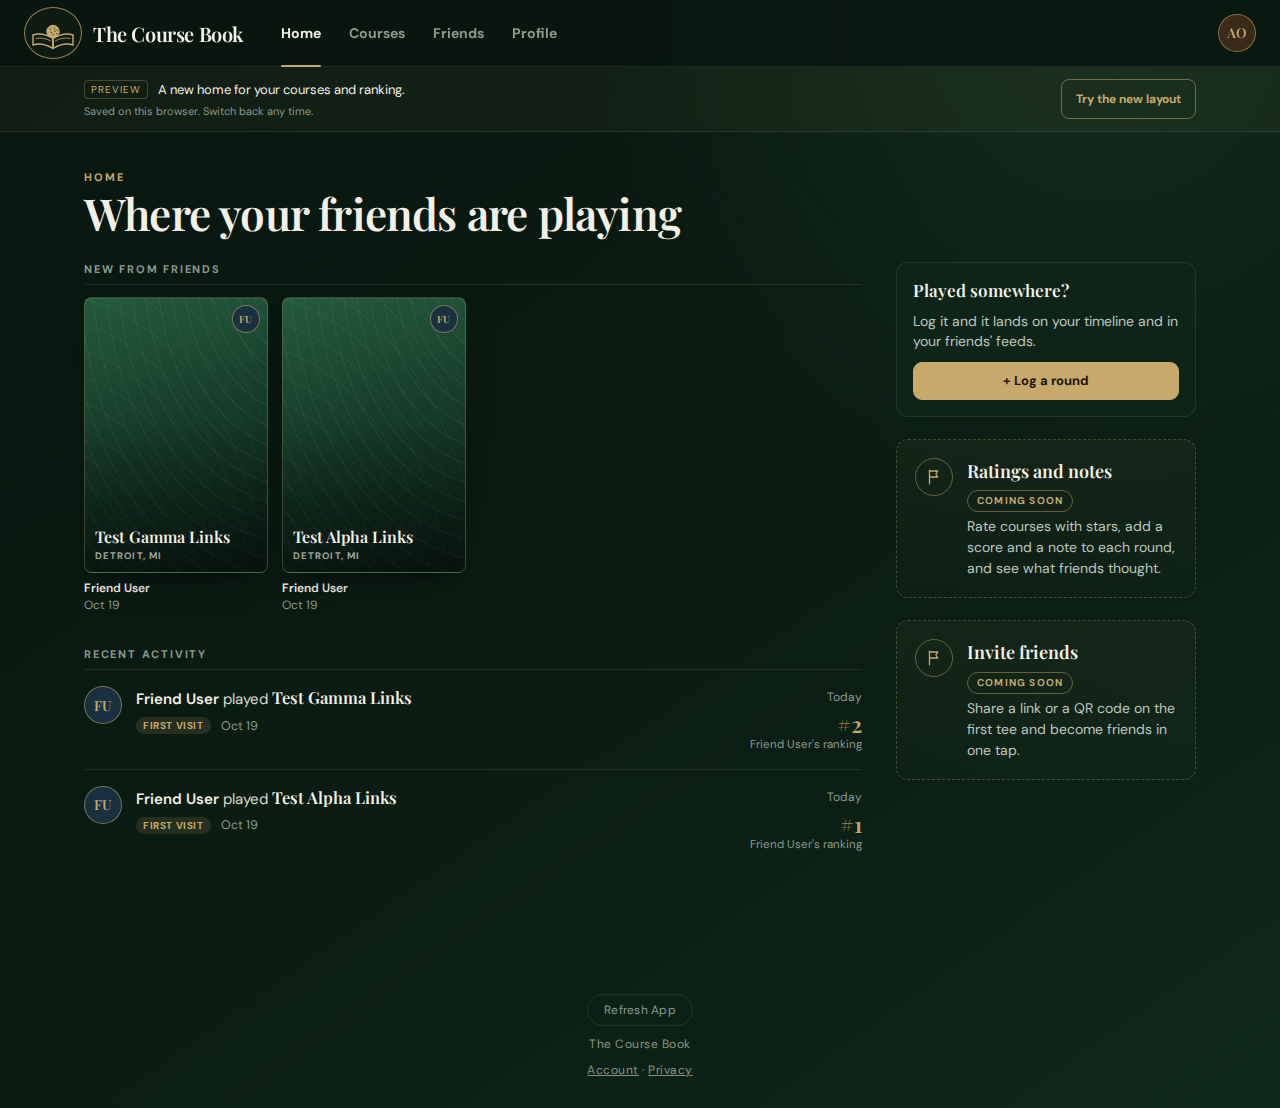
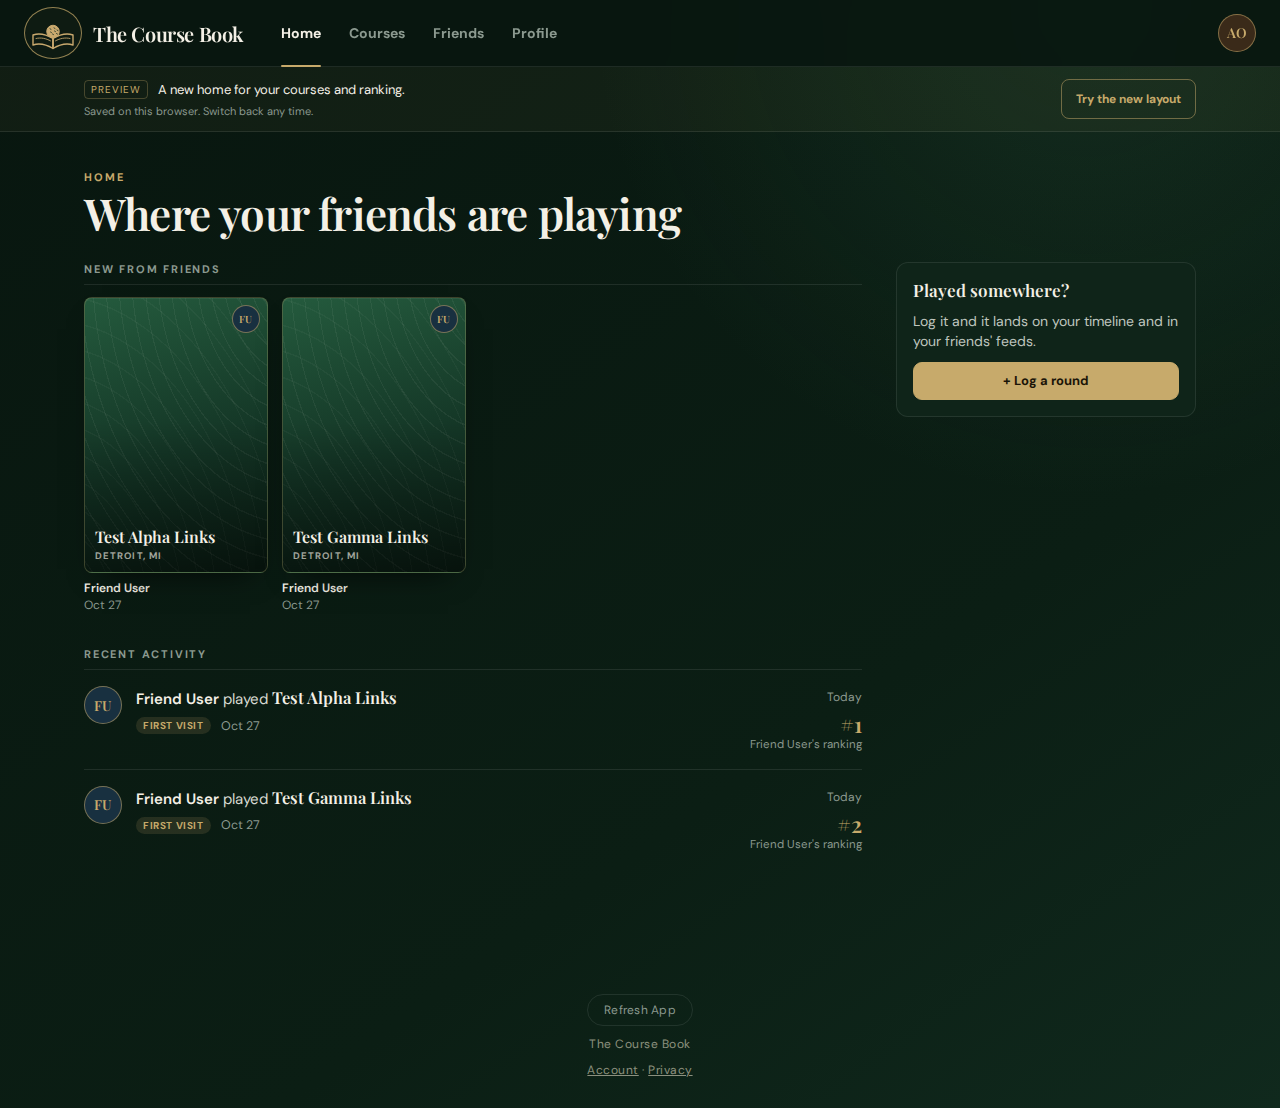
docs: record the lists strip, Up next and Coming soon removal
Updates the progress-first Home decision with the USA Top 100 and bare-app research and what followed, the architecture routes and AGENTS.md, and refreshes the Classic and preview screenshots.

diff --git a/.planning/decisions/2026-10-27-progress-first-preview-home.md b/.planning/decisions/2026-10-27-progress-first-preview-home.md
@@ -16,6 +16,24 @@ The guidance agrees: give a page one focal point and one recommended action (NN/
 
 The maintainer chose the full restructure over adding a hero above the existing editor.
 
+**Same-day follow-up.** The maintainer raised two more questions.
+
+*Should the hero default to the USA Top 100?*
+- Only 15 of the USA Top 100 are also on the USA Public 100, so about 85 are private clubs.
+- State lists hold 2 to 100 courses (average 23; Michigan's own list has 100).
+- Goal-setting research says hard goals motivate only while people still believe they can reach them, and effort follows the share remaining (Locke & Latham 2002; Kivetz et al. 2006).
+- Members persist more with goals they pick themselves (Patall et al. 2008 meta-analysis; the ENGAGE RCT).
+- So: keep a reachable default and let members choose.
+
+*Does the app now look bare?*
+- First-impression research does not penalize simple pages; it penalizes clutter (Tuch et al. 2012; Reinecke et al. 2013).
+- The real gaps are different:
+  - Home offered one action;
+  - course tiles and names lead nowhere, because there are no course pages;
+  - six "Coming soon" cards announced missing features (one was wrong);
+  - course tiles have no photos.
+- The maintainer approved adding a lists strip with a choice, adding Up next, and removing the Coming soon cards.
+
 ## Options Considered
 
 1. **Hero above the existing ranking editor.**
@@ -32,11 +50,14 @@ The maintainer chose the full restructure over adding a hero above the existing 
 
 Option 2, in the course-first preview only.
 
-- **Hero.** One published list's progress: count, bar and the friend with the most played on it. Log a round is the page's only solid gold action; See the list opens `/courses?list=<slug>`. The list is chosen by `chooseGoalList` (`features/home/goal-list.ts`), in this order:
-  1. the home-state list, if started and unfinished;
-  2. otherwise the unfinished started list with the largest share played (ties go to more played, then display order);
-  3. otherwise the home-state list even if unstarted;
-  4. otherwise the first list.
+- **Hero.** One published list's progress: count, bar and the friend with the most played on it. Log a round is the page's only solid gold action. The list is chosen by `chooseGoalList` (`features/home/goal-list.ts`), in this order:
+  1. the member's pick: `?goal=<slug>`, else the slug saved under `coursebookHomeGoalList` on this browser;
+  2. the home-state list, if started and unfinished;
+  3. otherwise the unfinished started list with the largest share played (ties go to more played, then display order);
+  4. otherwise the home-state list even if unstarted;
+  5. otherwise the first list.
+- **Your lists.** Under the hero, a strip of cards shows progress on every national list and the home state's, plus the tracked list if it is another state's (`goalChoices`). Tapping a card tracks that list. It is saved through `SafeStorage` and shown through `?goal=`, so a failed save still shows the pick and tells the member it won't be remembered. The pick is per browser; an account-level goal would need an additive API field. On phones the strip scrolls sideways.
+- **Up next.** The tracked list's first three unplayed courses, Want to play first (`upNext`). They use the Courses page's `CourseRow` and `CourseActions`, so members can save Want to play or log from Home; the Log dialog opens in place. "See the list" opens `/courses?list=<slug>`. A finished list says so and points to the strip.
 - **Friend comparison.** Shown as company ("Dan Whitaker has played 20"), not as a gap. Strava's 2024 Weekly Snapshot drew complaints for making comparisons feel like failure.
 - **Friends' rounds.** Three at distinct courses, from `newFromFriends`, which skips backfills. The note is "Your #n" when the course is on the member's list, else the course's first published rank (`friendNote`). It never says "not played": the match is by course id, and the API resolves equivalent course rows on some reads.
 - **Top four.** Reuses `TopFour`, with a "Your ranking" link to `/u/:username/ranking`. The full editor and its `?log=1` dialog live there.
@@ -45,16 +66,20 @@ Option 2, in the course-first preview only.
   - Phones: Home, My ranking, Log a round, Courses, Friends. That is five slots. Home links to Activity and to the member's lists, so those two are desktop-only.
   - All six desktop links fit at the 901px breakpoint.
 - **Log links.** `/?log=1` redirects to the own-profile Ranking dialog in both layouts.
-- **Reads.** Home reads `/v1/top-lists`, the newest 12 feed items and `/v1/me/courses` in parallel. There are no API, contract, schema, auth or infrastructure changes.
+- **Coming soon cards removed app-wide:** Activity and Classic Home's sidebar, the Profile timeline, Stats, and member Lists. This also changes Classic.
+- **Reads.** Home reads `/v1/top-lists`, then the tracked list's detail (`/v1/top-lists/{type}/{scope}`), alongside the newest 12 feed items and `/v1/me/courses`. There are no API, contract, schema, auth or infrastructure changes.
 
 ## Consequences
 
 - **Superseded.** The course-first decision's "the editable ranking is Home" and its "Home reads only `/v1/me/courses`" no longer hold for the preview.
-- **Request cost.** Home makes three parallel reads where the old preview made one and Classic makes two, on top of the shell's two. Loading delays reported on 19 Oct are still unexplained. Measure with the loading telemetry (PR #46) once it ships. If Home is slow, an additive `/v1/home` summary operation is the contract-safe fallback.
-- **Classic unchanged.** It keeps the review's findings (Coming soon cards, gold everywhere, duplicated strip). Promoting the preview and retiring Classic, its control and the preference together remains the plan.
-- **Browser tests.** Shared journeys now edit the ranking on the profile in both layouts. A preview journey covers the hero, the friends' notes, the top four, See the list, Your ranking, All activity and `/?log=1`.
+- **Request cost.** Home makes four reads in two round trips (the list detail waits for the standings) where the old preview made one and Classic makes two, on top of the shell's two. Changing the tracked list reloads Home's reads. Loading delays reported on 19 Oct are still unexplained. Measure with the loading telemetry (PR #46) once it ships. If Home is slow, an additive `/v1/home` summary operation is the contract-safe fallback.
+- **Classic otherwise unchanged.** It keeps the review's other findings (gold everywhere, duplicated strip). Promoting the preview and retiring Classic, its control and the preference together remains the plan.
+- **Browser tests.** Shared journeys now edit the ranking on the profile in both layouts.
+  - One preview journey covers the hero, the friends' notes, the top four, See the list, Your ranking, All activity and `/?log=1`.
+  - Another covers Up next's Want to play and Log, and tracking another list, including after a reload.
 - **Not done; separate decisions:**
-  - letting members pick a goal list (an account field);
+  - syncing the tracked list across devices (an account field);
+  - a production read of how many members have played any USA Top 100 course versus their state list (needs explicit authorization);
   - course photography in the hero (rights and attribution, per the course-first decision);
   - milestone moments instead of streaks;
-  - the out-of-date "Want to play, Coming soon" card on Profile.
+  - course pages, so tiles and course names lead somewhere (designed in the 2026-09-29 redesign).

diff --git a/docs/architecture.md b/docs/architecture.md
@@ -178,7 +178,13 @@ The web app is mid-redesign ([decision](../.planning/decisions/2026-09-29-social
 - **Redesigned screens** style themselves with colocated CSS modules. These are the navigation (`features/shell`), Home (`features/home`), Activity, profiles and Friends (`features/social`, `features/friends`), the Courses page and member Top lists (`features/top-lists`), and the Ranking tab (`features/journal`, on the Top lists rows). They use the `legacy.css` `:root` tokens (`--bg`, `--panel`, `--cream`, `--gold`, …) and its Playfair Display and DM Sans fonts. Modules keep their class names local, because `legacy.css` styles bare `header`, `nav`, `main` and generic classes such as `.card`, `.avatar` and `.stat`. Join module classes with `cx()` (`shared/lib/cx.ts`): lookups are `string | undefined` under `noUncheckedIndexedAccess`.
 - **Screens not yet redesigned** keep their markup, element ids and `legacy.css`: Account, Privacy, and the Ranking tab's dialogs (course details, the count editor, round history, Log and Add a course). The stylesheet preserves what Chromium parsed from the original page, including rules the browser ignored, so broad cleanup changes appearance.
 - **Routes:**
-  - `/` is Home. Classic (the default) shows the friends feed. The opt-in new layout leads with one focal point: the member's progress on one published list (their home state's when started, else the started list with the largest share played), with Log a round as the only solid action. Below it are three friends' rounds at different courses, each noted from the member's side ("Your #2", else the course's published rank), and the member's top four, linking to their Ranking tab. It reads `/v1/top-lists`, the newest 12 feed items and `/v1/me/courses` in parallel; the choice rules are pure functions in `features/home/goal-list.ts` and `friend-note.ts`. Visitors see the welcome in both layouts. In both layouts `?log=1` redirects to the own-profile Ranking with the Log dialog open.
+  - `/` is Home. Classic (the default) shows the friends feed. The opt-in new layout leads with one focal point: the member's progress on the list Home tracks, with Log a round as the only solid action. The tracked list is `?goal=<slug>`, else the one picked on this browser (`coursebookHomeGoalList`), else their home state's when started, else the started list with the largest share played. Below the hero are:
+    - a strip of the member's lists (national lists and the home state's), where tapping one tracks it;
+    - Up next on the tracked list, the first three unplayed courses with Want to play first, with the Courses page's Log and Want to play buttons;
+    - three friends' rounds at different courses, each noted from the member's side ("Your #2", else the course's published rank);
+    - the member's top four, linking to their Ranking tab.
+
+    It reads `/v1/top-lists` and then the tracked list's detail, alongside the newest 12 feed items and `/v1/me/courses`. The choice rules are pure functions in `features/home/goal-list.ts` and `friend-note.ts`. Visitors see the welcome in both layouts. In both layouts `?log=1` redirects to the own-profile Ranking with the Log dialog open.
   - `/activity` is the friends feed in either layout. Preview navigation on desktop is Home, My ranking, My lists, Courses, Activity and Friends. On phones it is Home, My ranking, Log a round, Courses and Friends, and Home links to Activity and the member's lists. Profile is in the account menu. My ranking and My lists link straight to `/u/:username/ranking` and `/u/:username/lists`. Classic keeps Home, Courses, Friends and Profile, plus the mobile Log button. See the [progress-first Home decision](../.planning/decisions/2026-10-27-progress-first-preview-home.md), which amends the [course-first Home decision](../.planning/decisions/2026-10-19-course-first-home-and-direct-list-navigation.md).
   - `/courses` is the published Top lists; `/top-100` redirects there.
   - `/u/:username` is a profile, with tabs for Timeline (index), Ranking, Lists and Stats. The member's own Ranking tab is the list editor, and `?log=1` opens the Log dialog. `/u/:username/lists/:list` (`usa`, `usa-public`, `world`, `state-mi`, …) is one Top list with the member's ticks and, on a friend's, the viewer's.

diff --git a/AGENTS.md b/AGENTS.md
@@ -25,7 +25,7 @@ The application was rebuilt from a static Supabase SPA per [the rebuild decision
 - The API contract (`contract/openapi.json`) is generated from the route definitions and only grows: add operations, fields and error codes; never rename, retype or remove them. Follow [contract/README.md](contract/README.md) and run `pnpm contract:emit` after changing a route or schema. Installed app builds depend on it.
 - Validate every boundary with Zod: request parameters and bodies through the contract schemas, form data in the web's `clientAction`, environment variables at startup, external API responses and token claims. Keep contract shapes, domain models and Drizzle row types separate; mappers translate between them.
 - Schema changes ship as Drizzle migration files generated from `apps/api/src/db/schema.ts` and committed with the change. Never edit an applied migration; never use `drizzle-kit push` outside a throwaway local database. Migrations run when the API starts, while the previous release still serves, so they must stay backward-compatible.
-- Components own presentation and transient interaction state. Data arrives from route `clientLoader`s as `loaderData`; changes go through `useFetcher` (`useActionFetcher`) to a route `clientAction`, which calls the API: `/journal` for list and round changes, `/friends` for friend requests. The social redesign ([decision](.planning/decisions/2026-09-29-social-redesign-top-lists-profiles-timelines-and-star-ratings.md)) is replacing the old screens: new components style themselves with colocated CSS modules (`*.module.css`) over the `legacy.css` tokens and fonts, so they cannot collide with its global class names. Classic remains the default layout (Home feed and Profile navigation). The opt-in course-first preview leads Home with the member's progress on one published list, then friends' rounds and their top four, and links My ranking and My lists directly ([decision](.planning/decisions/2026-10-27-progress-first-preview-home.md)); the preview strip switches both Home and navigation and saves only a browser preference ([rollout decision](.planning/decisions/2026-10-19-opt-in-layout-preview-in-production.md)). Both layouts use the same API and real member data; keep tests for both until the preview is retired. Screens not yet redesigned (Account, the journal dialogs) keep their markup, element ids and `legacy.css`.
+- Components own presentation and transient interaction state. Data arrives from route `clientLoader`s as `loaderData`; changes go through `useFetcher` (`useActionFetcher`) to a route `clientAction`, which calls the API: `/journal` for list and round changes, `/friends` for friend requests. The social redesign ([decision](.planning/decisions/2026-09-29-social-redesign-top-lists-profiles-timelines-and-star-ratings.md)) is replacing the old screens: new components style themselves with colocated CSS modules (`*.module.css`) over the `legacy.css` tokens and fonts, so they cannot collide with its global class names. Classic remains the default layout (Home feed and Profile navigation). The opt-in course-first preview leads Home with the member's progress on the list they track, then their other lists, Up next on that list, friends' rounds and their top four, and links My ranking and My lists directly ([decision](.planning/decisions/2026-10-27-progress-first-preview-home.md)); the preview strip switches both Home and navigation and saves only a browser preference ([rollout decision](.planning/decisions/2026-10-19-opt-in-layout-preview-in-production.md)). Both layouts use the same API and real member data; keep tests for both until the preview is retired. Screens not yet redesigned (Account, the journal dialogs) keep their markup, element ids and `legacy.css`.
 - Do not introduce a state library, UI framework, second router, alternate package manager, ORM, API framework or hosting change incidentally. If a requirement needs an architectural change, explain the tradeoff and record the agreed decision.
 
 ## TypeScript and UI conventions
